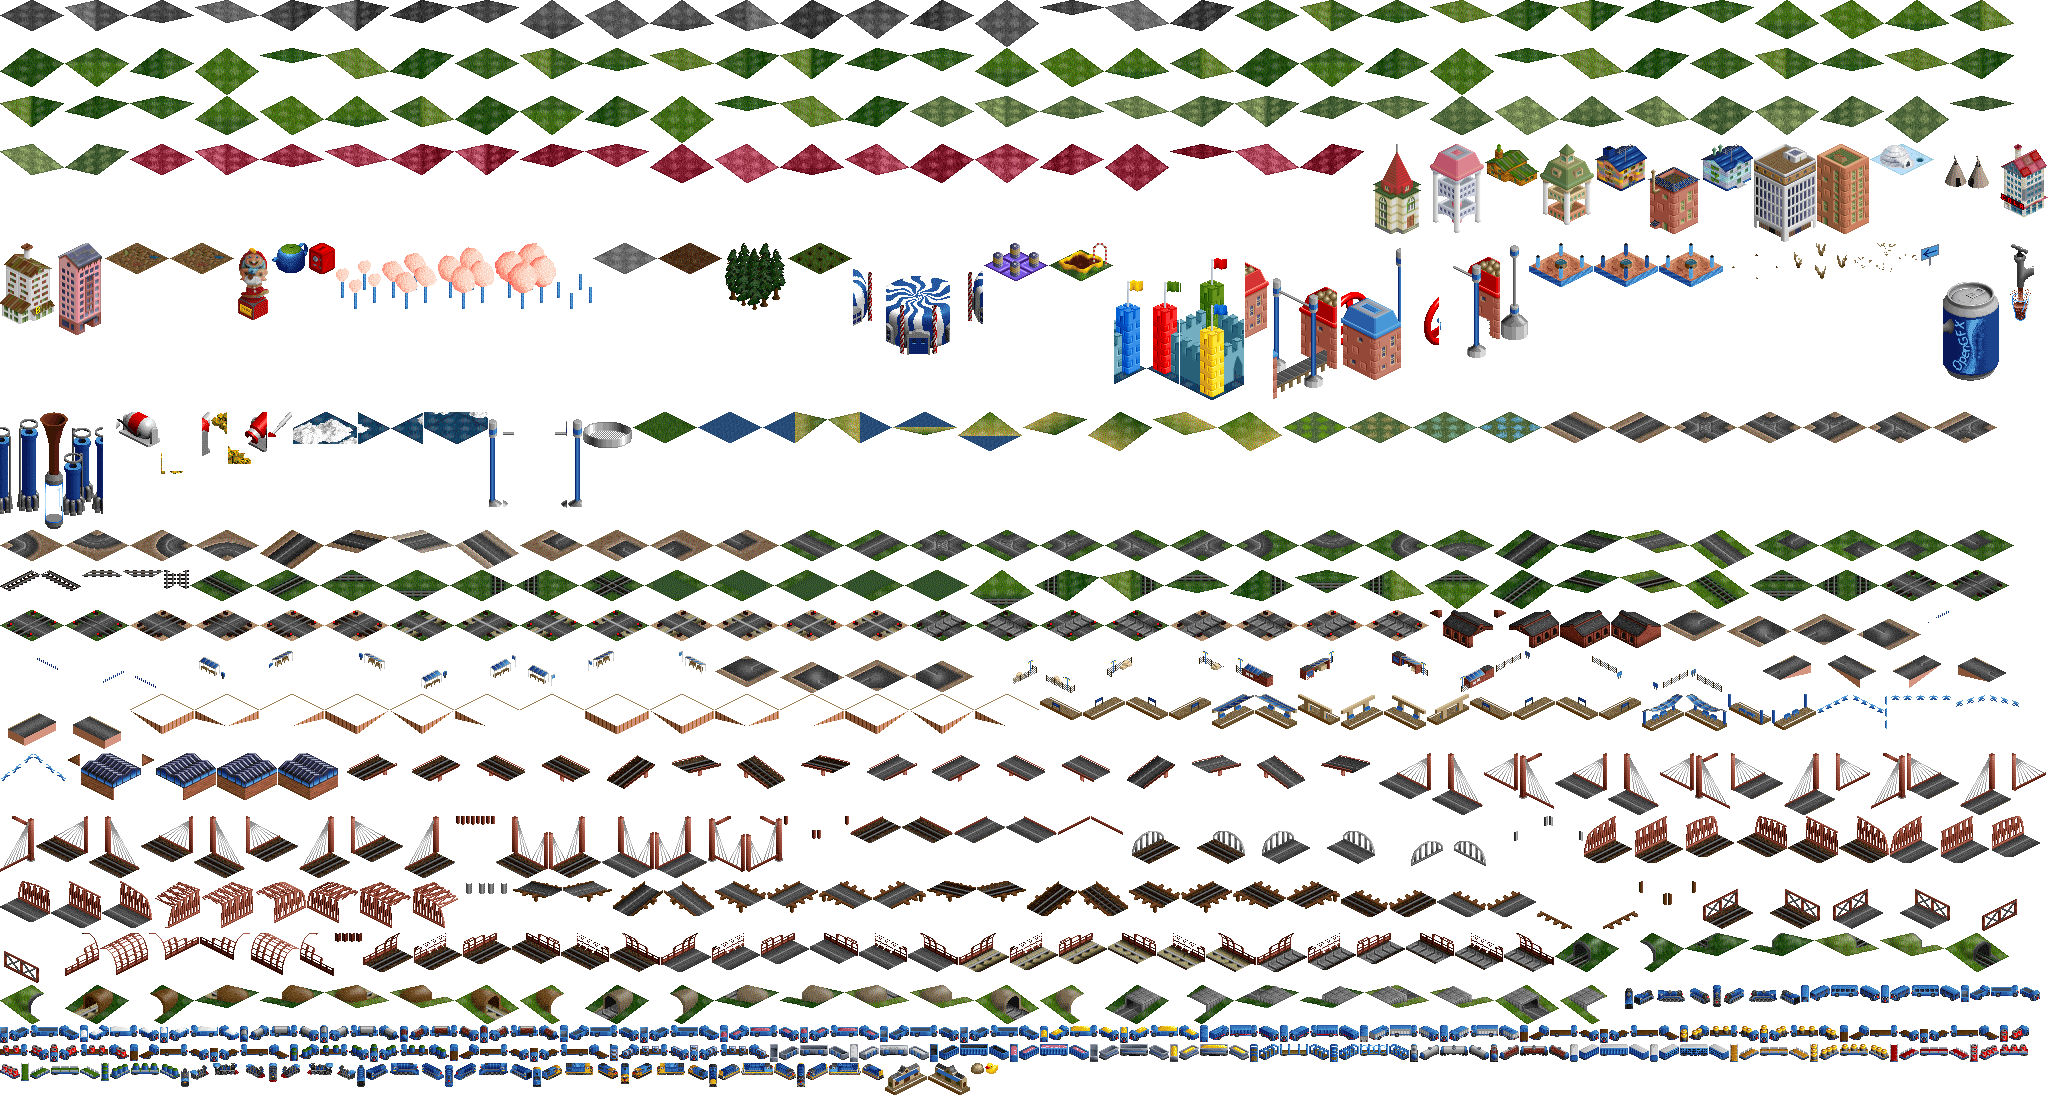
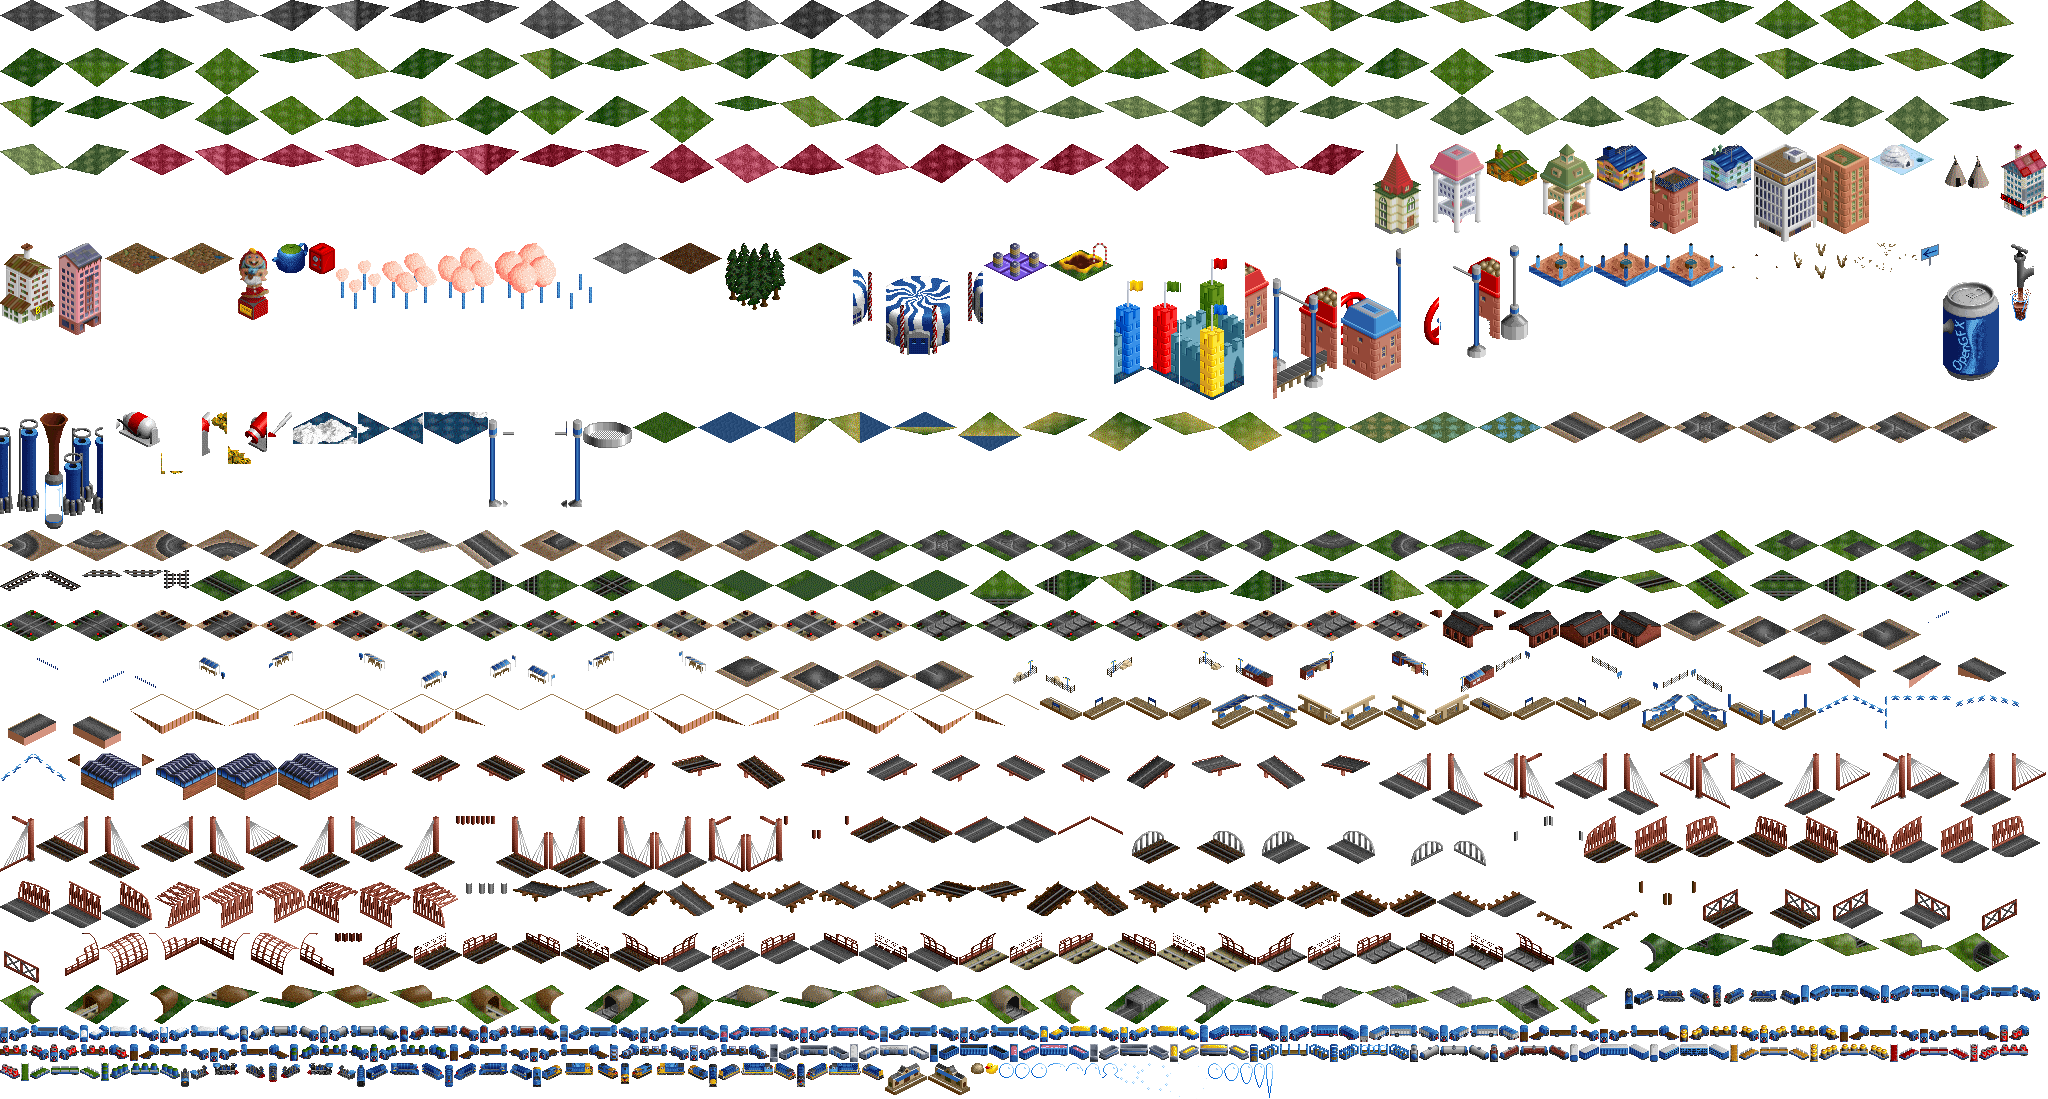
IA5: toyland bubble generator spawns render-only OTTD bubble effect sprites 4748-4762 (pooled, cap 48); packed as late block 550000+, old keys unchanged

diff --git a/js/renderer/pack/toyland.js b/js/renderer/pack/toyland.js
@@ -6,6 +6,7 @@
  * GPL-2.0 (OpenTTD).
  */
 import { blitPackFrom } from './draw.js';
+import { spawnBubble } from '../bubbles.js';
 import { HALF_H, HEIGHT_STEP as S, TILE_W, TILE_H } from '../iso.js';
 import { slopeBits } from './slope.js';
 import { drawSloped } from '../slope.js';
@@ -40,7 +41,6 @@ export const toylandState = { pack: null, base: null, on: false, top: [], map: n
 
 /** OTTD industry animation tables (table/industry_land.h), frame index 0.. ; 255 = not drawn (toy factory clay/robot). */
 const TOFFEE_OFFS = [255, 0, 0, 0, 2, 4, 6, 8, 10, 9, 7, 5, 3, 1, 255, 0, 0, 0, 2, 4, 6, 8, 10, 9, 7, 5, 3, 1, 255, 0, 0, 0, 2, 4, 6, 8, 10, 9, 7, 5, 3, 1, 255, 0, 0, 0, 2, 4, 6, 8, 10, 9, 7, 5, 3, 1, 255, 0, 0, 0, 2, 4, 6, 8, 10, 9, 7, 5, 3, 1];
-const BUBBLE_Y = [68, 69, 71, 74, 77, 80, 83, 85, 86, 86, 86, 86, 86, 86, 86, 86, 86, 86, 86, 86, 86, 86, 85, 84, 83, 82, 81, 80, 79, 78, 77, 76, 75, 74, 73, 72, 71, 70, 69, 68];
 /** MD(img1, img2, img3) per frame: clay offset, robot offset, stamp y (table _industry_anim_offs_toys, 50 frames). */
 const TOY_MD = [[255, 255, 0], [0, 255, 0], [1, 255, 0], [2, 255, 0], [3, 255, 0], [4, 255, 0], [5, 255, 0], [6, 255, 0], [7, 255, 0], [8, 255, 0], [9, 255, 0], [10, 255, 0], [11, 255, 0], [12, 255, 0], [13, 255, 0], [14, 255, 0], [15, 255, 0], [16, 255, 0], [17, 255, 0], [18, 255, 0], [18, 255, 1], [18, 255, 2], [18, 255, 4], [18, 255, 6], [18, 255, 8], [18, 255, 11], [18, 255, 14], [18, 255, 17], [18, 255, 20], [18, 255, 24], [255, 0, 29], [255, 0, 24], [255, 0, 20], [255, 0, 17], [255, 0, 14], [255, 0, 11], [255, 0, 8], [255, 0, 6], [255, 0, 4], [255, 0, 2], [255, 0, 1], [255, 1, 0], [255, 2, 0], [255, 3, 0], [255, 4, 0], [255, 5, 0], [255, 6, 0], [255, 7, 0], [255, 8, 0], [255, 255, 0]];
 /** One OTTD animation step per this many renderer frames (approximate; OTTD steps on game ticks). */
@@ -50,7 +50,7 @@ const ANIM_GFX = { toffee: 165, bubble: 162, toy: 143 };
 
 /** Animated child sprites [spriteId, cx, cy] for an animated special-proc gfx at tile (x,y); null when static. */
 function toylandAnimKids(gfx, x, y) {
-  const kind = gfx === ANIM_GFX.toffee ? 'toffee' : gfx === ANIM_GFX.bubble ? 'bubble' : gfx === ANIM_GFX.toy ? 'toy' : null;
+  const kind = gfx === ANIM_GFX.toffee ? 'toffee' : gfx === ANIM_GFX.toy ? 'toy' : null;
   if (!kind) return null;
   const step = Math.floor(toylandState.animFrame / ANIM_STEP_FRAMES) + tileHash(x, y);
   if (kind === 'toffee') {
@@ -58,7 +58,6 @@ function toylandAnimKids(gfx, x, y) {
     const xo = v === 255 ? 0 : v;
     return [[4767, 22 - xo, 24 + xo], [4766, 6, 14]];
   }
-  if (kind === 'bubble') return [[4747, 5, BUBBLE_Y[step % BUBBLE_Y.length]], [4746, 3, 67]];
   const [i1, i2, i3] = TOY_MD[step % TOY_MD.length];
   const kids = [];
   if (i1 !== 255) kids.push([4719, 50 - i1 * 2, 96 + i1]); // clay (OpenGFX toyland 4719, appended in pack)
@@ -316,6 +315,8 @@ export function drawToylandIndustryTile(ctx, ind, x, y, topX, topY) {
   // OTTD special draw proc (industry_cmd.cpp): child sprites at screen offsets from the tile origin; animated frame (TY5)
   const kids = toylandAnimKids(gfx, x, y) || TOYLAND_INDUSTRY_CHILDREN[gfx] || [];
   for (const [sid, cx, cy] of kids) blitPackFrom(pack, ctx, String(sid), topX + cx, topY + cy);
+  // IA5 bubble generator (OTTD EV_BUBBLE): spawn a render-only bubble when the generator animates (one step in four, once per step)
+  if (gfx === ANIM_GFX.bubble && toylandState.animFrame % ANIM_STEP_FRAMES === 0 && (Math.floor(toylandState.animFrame / ANIM_STEP_FRAMES) + tileHash(x, y)) % 4 === 0) spawnBubble(topX, topY);
   return true;
 }
 

diff --git a/js/renderer/bubbles.js b/js/renderer/bubbles.js
@@ -1,0 +1,60 @@
+/**
+ * Bubble generator effect (OTTD effectvehicle.cpp EV_BUBBLE, sprites SPR_BUBBLE_* = 4748..4762, _bubble_movement).
+ * Render-only: a fixed pool of bubbles (typed arrays, no per-frame allocation), spawned when a visible toyland
+ * bubble generator (gfx 162) animates (pack/toyland.js). Never touches the simulation state or any cache.
+ * The OTTD path is approximated: each bubble rises with a small sideways sway, swelling from the small sprite
+ * (4748) to the large one (4762), then pops.
+ */
+import { blitPackFrom } from './pack/draw.js';
+
+/** Hard cap on live bubbles (pool size). */
+export const BUBBLE_MAX = 48;
+/** Spawn offset from the tile top corner: OpenGFX child 4747 at (5,68) (industry_cmd.cpp special draw proc). */
+const BUBBLE_DX = 5, BUBBLE_DY = 68;
+/** Life of one bubble in seconds. */
+const LIFE_S = 1.6;
+/** Rise speed (world px/s) and sway amplitude (px). */
+const RISE = 26, SWAY = 2.5;
+/** Sprite key per 1/15 of life: 4748..4762 (precomputed; no string building per frame). */
+const SPR = [];
+for (let id = 4748; id <= 4762; id++) SPR.push(String(id));
+
+const bx = new Float32Array(BUBBLE_MAX), by = new Float32Array(BUBBLE_MAX), age = new Float32Array(BUBBLE_MAX);
+const ph = new Float32Array(BUBBLE_MAX);
+let count = 0;
+
+/**
+ * Spawn one bubble above a generator tile (screen px of the tile top corner). No-op when the pool is full.
+ * @param {number} topX tile top corner x
+ * @param {number} topY tile top corner y
+ */
+export function spawnBubble(topX, topY) {
+  if (count >= BUBBLE_MAX) return;
+  bx[count] = topX + BUBBLE_DX; by[count] = topY + BUBBLE_DY; age[count] = 0; ph[count] = count * 1.7; count++;
+}
+
+/** Drop every live bubble (used when the toyland view is off). */
+export function clearBubbles() { count = 0; }
+
+/**
+ * Advance and draw the pool (ctx already carries the world transform). Draws above the industries.
+ * @param {CanvasRenderingContext2D} ctx
+ * @param {object} pack toyland-view pack (sprites/atlases) used for the blit
+ * @param {number} dt seconds since last frame
+ */
+export function drawBubbles(ctx, pack, dt) {
+  if (!pack) { count = 0; return; }
+  const d = dt > 0.1 ? 0.1 : dt;
+  let w = 0;
+  for (let i = 0; i < count; i++) {
+    const a = age[i] + d;
+    if (a >= LIFE_S) continue; // popped
+    const t = a / LIFE_S;
+    const x = bx[i] + Math.sin(ph[i] + a * 5) * SWAY;
+    const y = by[i] - a * RISE;
+    blitPackFrom(pack, ctx, SPR[(t * 14) | 0], x, y);
+    bx[w] = bx[i]; by[w] = by[i]; age[w] = a; ph[w] = ph[i]; w++;
+  }
+  count = w;
+}
+

diff --git a/tests/toylandBubbles.test.js b/tests/toylandBubbles.test.js
@@ -1,0 +1,52 @@
+// IA5: bubble generator effect sprites (4748-4762) are packed as a late block; old pack keys keep their positions.
+import { test, expect, describe } from 'bun:test';
+import { readFileSync, existsSync } from 'node:fs';
+import { join, dirname } from 'node:path';
+import { fileURLToPath } from 'node:url';
+import { spawnBubble, drawBubbles, clearBubbles, BUBBLE_MAX } from '../js/renderer/bubbles.js';
+
+const root = join(dirname(fileURLToPath(import.meta.url)), '..');
+const manifest = JSON.parse(readFileSync(join(root, 'assets/opengfx/toyland/manifest.json'), 'utf8'));
+
+describe('toyland bubble effect sprites', () => {
+  test('4748-4762 are packed and existing keys stay at their positions', () => {
+    for (let id = 4748; id <= 4762; id++) expect(manifest.sprites[String(id)]).toBeDefined();
+    // the late IA5 block sits after the TY5 keys (4719/4720), so the sort order places it last
+    const keys = Object.keys(manifest.sprites);
+    expect(keys.includes('4762')).toBe(true);
+    expect(manifest.sprites['4719']).toBeDefined();
+    expect(manifest.sprites['4746']).toBeDefined();
+  });
+
+  test('extractor declares the late block (order 550000+) and keeps the TY5 block', () => {
+    const src = readFileSync(join(root, 'tools/ogfx/extract_toyland.js'), 'utf8');
+    expect(src).toMatch(/550000 \+ id/);
+    expect(src).toMatch(/500000 \+ id/);
+    expect(existsSync(join(root, 'js/renderer/bubbles.js'))).toBe(true);
+  });
+
+  test('pool is capped and does not grow past BUBBLE_MAX', () => {
+    clearBubbles();
+    for (let i = 0; i < BUBBLE_MAX + 20; i++) spawnBubble(0, 0);
+    let calls = 0;
+    const ctx = { drawImage() { calls++; } };
+    const pack = { sprites: {}, atlases: [] };
+    drawBubbles(ctx, pack, 0); // no sprite entries: nothing blits, but the pool is still walked
+    expect(calls).toBe(0);
+    clearBubbles();
+  });
+
+  test('bubbles pop after their life', () => {
+    clearBubbles();
+    spawnBubble(0, 0);
+    const pack = { sprites: { 4748: [0, 0, 0, 15, 15, -7, -15, 0] }, atlases: [{}] };
+    let n = 0;
+    const ctx = { drawImage() { n++; } };
+    for (let i = 0; i < 200; i++) drawBubbles(ctx, pack, 0.05);
+    expect(n).toBeGreaterThan(0);
+    const before = n;
+    drawBubbles(ctx, pack, 0.05);
+    expect(n).toBe(before); // popped: no more draws
+    clearBubbles();
+  });
+});

diff --git a/js/renderer/renderer.js b/js/renderer/renderer.js
@@ -19,6 +19,7 @@ import { drawMetroOverlay } from './layers/metro.js';
 import { createOverlayState, drawOverlays, drawUnderlays, tileDiamond, drawLabel, FloatingTexts } from './layers/overlays.js';
 import { OVERLAY } from './palette.js';
 import { Smoke } from './particles.js';
+import { drawBubbles } from './bubbles.js';
 import { VehicleFx } from './vehicleFx.js';
 import { SMOKE } from './sprites/buildings.js';
 import { P } from './sprites/shapes.js';
@@ -446,6 +447,8 @@ export class Renderer {
     }
 
     this.smoke.draw(ctx, dt);
+    // IA5 bubble generator effect (render-only, OTTD EV_BUBBLE): toyland view only
+    drawBubbles(ctx, toylandState.on ? toylandState.pack : null, dt);
     drawOverlays(ctx, map, this.overlay);
     // screen-space labels and floating texts: last, always above landmarks/vehicles
     ctx.setTransform(this.dpr, 0, 0, this.dpr, 0, 0);

diff --git a/tools/ogfx/extract_toyland.js b/tools/ogfx/extract_toyland.js
@@ -178,6 +178,14 @@ for (const id of [4719, 4720]) {
   pieces.push({ key: String(id), order: 500000 + id, file: d.file, x: d.x, y: d.y, w: d.w, h: d.h, xo: d.xo, yo: d.yo });
 }
 
+// IA5 bubble generator effect sprites (OTTD effectvehicle.cpp EV_BUBBLE, SPR_BUBBLE_* = 4748..4762): last block
+// (order 550000+), so no earlier key moves. Drawn render-only by js/renderer/bubbles.js.
+for (let id = 4748; id <= 4762; id++) {
+  const d = rawDef(id);
+  if (!d) throw new Error(`bubble sprite ${id} has no OpenGFX definition`);
+  pieces.push({ key: String(id), order: 550000 + id, file: d.file, x: d.x, y: d.y, w: d.w, h: d.h, xo: d.xo, yo: d.yo });
+}
+
 pieces.sort((a, b) => a.order - b.order);
 const manifest = { sprites: {}, atlases: [], license: 'OpenGFX base graphics, GPL-2.0 (https://github.com/OpenTTD/OpenGFX)' };
 const placed = [];
